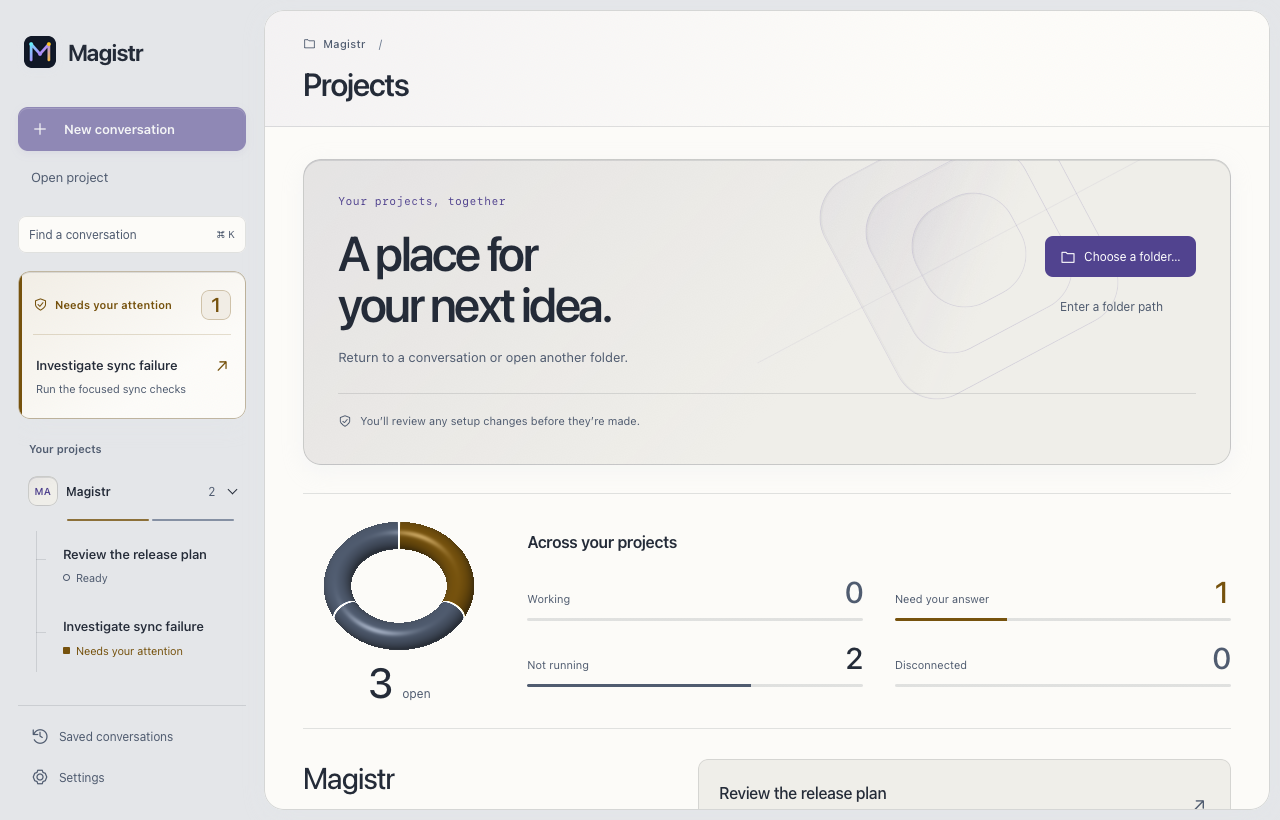
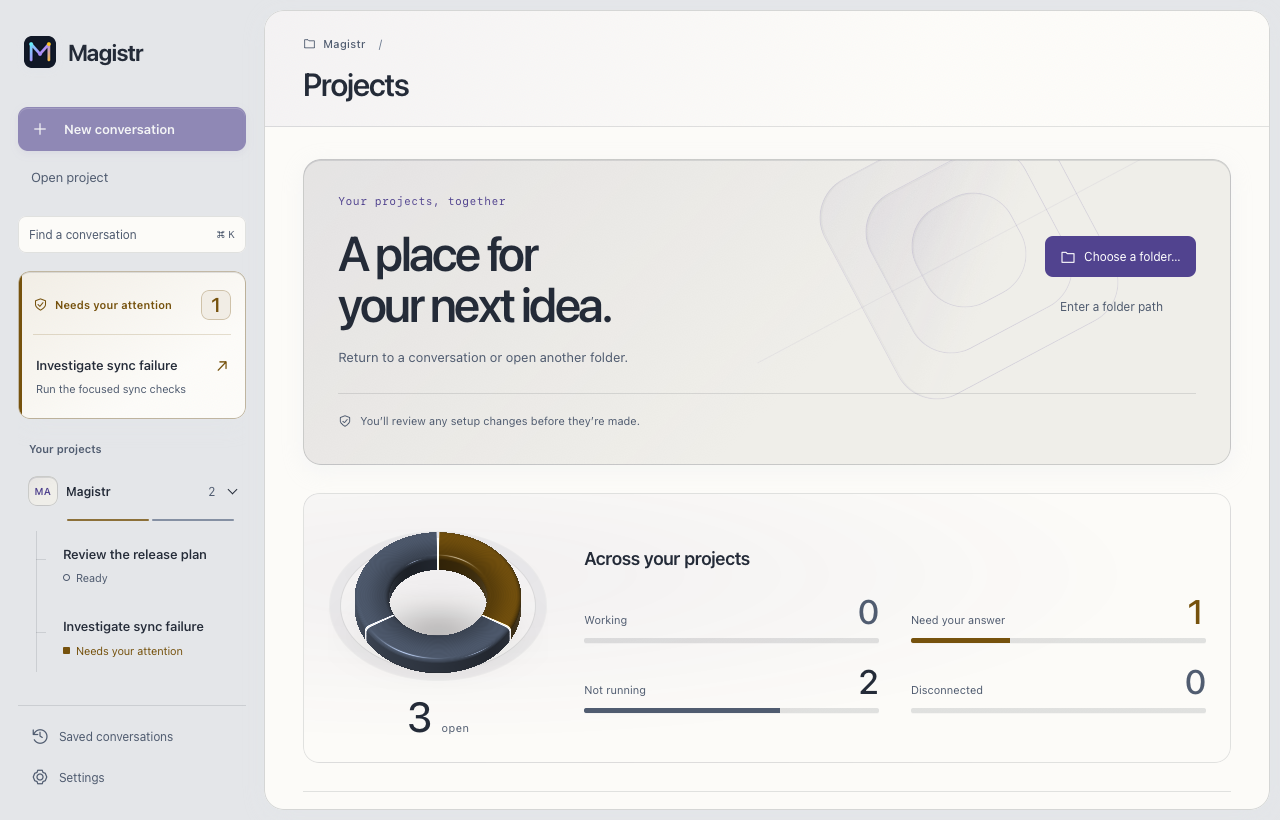
feat(desktop): render a beveled activity instrument with studio-lit shaders

diff --git a/crates/magistr-desktop/ui/style.css b/crates/magistr-desktop/ui/style.css
@@ -423,15 +423,16 @@ p.error{white-space:pre-wrap}#error{margin:12px 24px 0;max-height:20dvh;overflow
 .welcome-actions button:first-child{background:var(--button);color:var(--button-text);border-color:var(--button)}
 .welcome-actions button+button{background:transparent;border-color:transparent;color:var(--muted)}
 
-.project-activity{display:grid;grid-template-columns:192px minmax(0,1fr);align-items:center;gap:32px;margin:0;padding:18px 0 24px;border-top:1px solid var(--separator)}
-.activity-wheel{display:grid;place-content:center;text-align:center;position:relative;isolation:isolate;width:192px;height:192px}
+.project-activity{display:grid;grid-template-columns:220px minmax(0,1fr);align-items:center;gap:36px;margin:0 0 28px;padding:24px;border:1px solid var(--separator);border-radius:16px;background:radial-gradient(ellipse at 15% 30%,color-mix(in srgb,var(--accent) 6%,transparent),transparent 65%),var(--base)}
+.activity-wheel{display:grid;place-content:center;text-align:center;position:relative;isolation:isolate;width:220px;height:220px}
+.activity-wheel::after{content:"";position:absolute;inset:14px 12px 58px;border:1px solid var(--separator);border-radius:50%;transform:rotateX(28deg);z-index:-2;pointer-events:none;box-shadow:0 0 0 10px color-mix(in srgb,var(--accent) 2%,transparent),0 0 0 11px color-mix(in srgb,var(--text) 4%,transparent)}
 .activity-wheel::before{content:"";position:absolute;inset:0 18px 48px;border-radius:50%;background:var(--activity-fill);mask:radial-gradient(circle,transparent 58%,black 59%);-webkit-mask:radial-gradient(circle,transparent 58%,black 59%);z-index:-1}
 .activity-material{position:absolute;inset:0;width:100%;height:100%;z-index:-1;pointer-events:none}
 .activity-wheel:not([data-material=rendered]) .activity-material{visibility:hidden}.activity-wheel[data-material=rendered]::before{display:none}
-.activity-total{position:absolute;bottom:0;inset-inline:0;display:flex;align-items:baseline;justify-content:center;gap:10px;min-width:0}.activity-wheel strong{font-size:42px;line-height:1.05;font-weight:450;font-variant-numeric:tabular-nums;letter-spacing:-.04em}.activity-total>span{font-size:12px;color:var(--muted)}
-.activity-body h2{font-size:16px;letter-spacing:-.02em;text-transform:none;color:var(--text);margin:0 0 22px}
+.activity-total{position:absolute;bottom:0;inset-inline:0;display:flex;align-items:baseline;justify-content:center;gap:10px;min-width:0}.activity-wheel strong{font-size:42px;line-height:1.05;font-weight:450;font-variant-numeric:tabular-nums;letter-spacing:-.04em}.activity-total>span{font-size:11px;color:var(--muted);letter-spacing:.035em}.activity-total{padding:10px 0 0}
+.activity-body h2{font-size:18px;letter-spacing:-.02em;text-transform:none;color:var(--text);margin:0 0 22px}
 .activity-counts{display:grid;grid-template-columns:repeat(2,minmax(0,1fr));gap:22px 32px;margin:0}
-.activity-count{--tone:var(--muted);position:relative;display:flex;flex-direction:row;align-items:baseline;justify-content:space-between;gap:12px;min-width:0;padding-bottom:14px}.activity-count::after{content:"";position:absolute;bottom:0;left:0;right:0;height:3px;border-radius:2px;background:linear-gradient(to right,var(--tone) 0 var(--share),var(--separator) var(--share) 100%)}.activity-count[data-kind=working]{--tone:var(--success)}.activity-count[data-kind=waiting]{--tone:var(--warning)}.activity-count[data-kind=disconnected]{--tone:var(--danger)}.activity-count dt{font-size:11px;line-height:1.4;color:var(--muted)}.activity-count dd{font-size:30px;font-weight:500;line-height:1;margin:0;font-variant-numeric:tabular-nums;letter-spacing:-.035em}
+.activity-count{--tone:var(--muted);position:relative;display:flex;flex-direction:row;align-items:baseline;justify-content:space-between;gap:12px;min-width:0;padding-bottom:14px}.activity-count::after{content:"";position:absolute;bottom:0;left:0;right:0;height:5px;border-radius:2px;background:linear-gradient(to right,var(--tone) 0 var(--share),var(--separator) var(--share) 100%);box-shadow:0 1px 0 color-mix(in srgb,var(--text) 3%,transparent)}.activity-count[data-kind=working]{--tone:var(--success)}.activity-count[data-kind=waiting]{--tone:var(--warning)}.activity-count[data-kind=disconnected]{--tone:var(--danger)}.activity-count dt{font-size:11px;line-height:1.4;color:var(--muted)}.activity-count dd{font-size:34px;font-weight:500;line-height:1;margin:0;font-variant-numeric:tabular-nums;letter-spacing:-.035em}
 .activity-count[data-kind=working] dd{color:var(--success)}.activity-count[data-kind=waiting] dd{color:var(--warning)}.activity-count[data-kind=disconnected] dd{color:var(--danger)}.activity-count[data-empty=true] dd{color:var(--muted)}
 @media(max-width:1100px){.project-activity{gap:24px;grid-template-columns:144px minmax(0,1fr)}.activity-wheel{width:144px;height:144px}.activity-wheel strong{font-size:32px}.activity-total>span{font-size:11px}.activity-counts{gap:14px}.activity-count dd{font-size:27px}}
 @media(max-width:600px){.project-activity{grid-template-columns:92px minmax(0,1fr);gap:20px}.activity-wheel{width:92px;height:92px}.activity-material{position:absolute;inset:0;width:100%;height:100%;z-index:-1;pointer-events:none}
